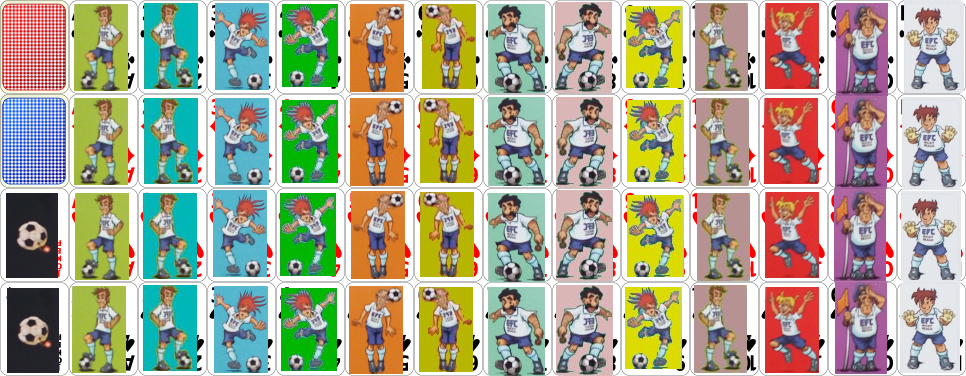
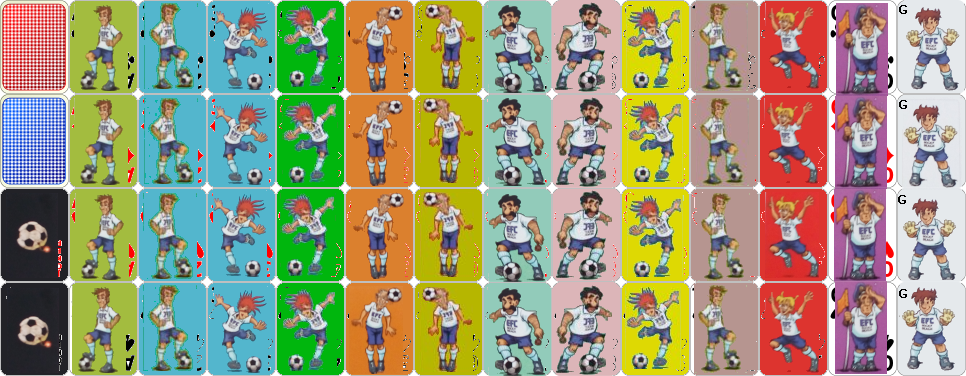
foosball test images

diff --git a/football.html b/football.html
@@ -12,7 +12,7 @@
 	<body>
 		<h1>Cards.js - Example-JON01</h1>
 	
-		<img class="preload" src="img/cards.png"/>
+		<img class="preload" src="img/cards_foosball.png"/>
 
 		<div id="card-table">
 			<button id="deal">DEAL</button><br><br><br><br><br><br>

diff --git a/cards.js b/cards.js
@@ -7,7 +7,7 @@ var cards = (function() {
 		table : 'body',
 		cardback : 'red',
 		acesHigh : false,
-		cardsUrl : 'img/cards.png',
+		cardsUrl : 'img/cards_foosball.png',
 		blackJoker : false,
 		redJoker : false
 	};
